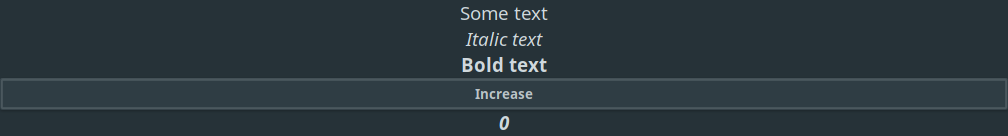
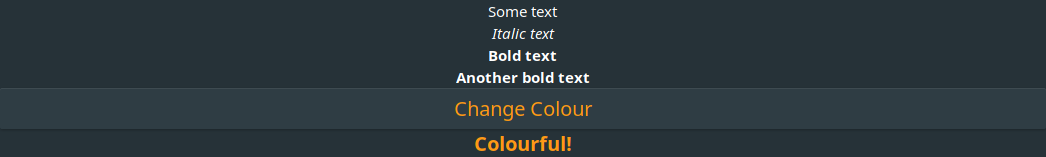
Updated README

diff --git a/README.md b/README.md
@@ -1,10 +1,14 @@
 # Reactive Markup
 
-The main goal of Reactive Markup is to provide a declarative way to program GUIs and to provide control structures within the markup to simplify event handling. Additionally, the markup is not limited to a fixed set of elements and can be easily extended with further components. The implementation of the markup can also be freely decided, even at runtime!
+**Reactive-Markup is still in a testing/development phase!**
 
-The library ist currently still in a design stage and this minimal example only shows what could be possible. I would love to hear what others think about my ideas!
+The main goal of Reactive Markup is to finally allow high-level GUI-programming in Haskell. Gone are the days of manually interfacing with C frameworks!
 
-Following Example outdated! Expect an update within a day!
+Here are some (planned) features:
+- Declarative
+- State/Event handling directly within components
+- Easy to create additional elements
+- Choose GUI framework depending on the environment
 
 Here is a code example:
 ```haskell
@@ -15,80 +19,96 @@ Here is a code example:
 module Main where
 
 import qualified Data.Text as T
+import Data.Colour
+import Data.Colour.Names
 
-import ReactiveMarkup.Markup
+import ReactiveMarkup.Elements.Settings
 import ReactiveMarkup.Elements.Basic
+import ReactiveMarkup.Markup
 import ReactiveMarkup.Runners.Gtk
 
 main :: IO ()
-main = basicGtkSetup "Example" $ runMarkup gtkRunner (\_ -> pure ()) myMarkup
+main = basicGtkSetup "Example" (\_ -> pure ()) myMarkup
 
-myMarkup :: SimpleMarkup [Label, List, DynamicState, DynamicMarkup, Button] Void
-myMarkup = expandMarkup $ list mempty $ emptyMarkupBuilder
-  +-> label mempty "Some text"
-  +-> label #italic "Italic text"
-  +-> list mempty (emptyMarkupBuilder +-> label #bold "Bold text")
-  +-> dynamicState 0 (\i _ -> (Just $ succ i, Nothing)) 
-        (flip dynamicMarkup $ \i -> list mempty $ emptyMarkupBuilder 
-          +-> button "Increase"
-          +-> label (#bold <> #italic) (T.pack $ show i)
-        )
+myMarkup :: SimpleMarkup '[Set FontColour, Set FontSize, List, Label, Set FontStyle, Set FontWeight, DynamicState, DynamicMarkup, Button] e
+myMarkup = expandMarkup $ fontColour white %% fontSizePx 15 %-> list (emptyMarkupBuilder
+  +-> label "Some text"
+  +-> italicStyle %-> label "Italic text"
+  +-> bold %-> list (emptyMarkupBuilder +-> label "Bold text" +-> label "Another bold text")
+  +-> greaterFont %-> dynamicState 0 (\i _ -> (Just $ succ i, Nothing))
+        (flip dynamicMarkup $ \i -> fontColour (rainbowColour i) %-> list (emptyMarkupBuilder 
+          +-> button "Change Colour"
+          +-> bold %-> label "Colourful!"
+        )))
+
+rainbowColour :: Int -> Colour Double
+rainbowColour i = blend factor3 (blend factor2 red yellow) (blend factor2 (blend factor1 red yellow) blue)
+  where
+    factor1 = sin (0.35 * fromIntegral i)
+    factor2 = sin (0.2 * fromIntegral i)
+    factor3 = 0.5 + sin (0.25 * fromIntegral i) / 4
 ```
 
-For now, I am working on an implementation (**gtkRunner** in _Runners/Gtk.hs_) of the Markup for GTK. I have created a simple implementation for the five components **Label**, **List**, **DynamicState**, **DynamicMarkup** and **Button**, which you can find in _reactive-markup/src/ReactiveMarkup/Elements/Basic.hs_.
-
-Here is a screenshot of the above example with my simplistic implementation:
+Here is a screenshot of the above example:
 ![](./screenshot.png)
+
+I have already added some **documentation** of the source code! Take a look if you are interested.
 
 ## How to build yourself
 
 First and foremost, you need to have **GTK 3** installed!
 
-To build this library, I personally use stack.
+This projects currently consists of:
+- reactive-markup: Main library which defines the markup and some basic components
+- reactive-markup-gtk: A gtk implementation of the current components
+- examples: Examples on how to use this library
+- gtk-hotreload: Hot-Reloading for reactive-markup-gtk
 
+I personally use stack as my build tool and you can build all of these 4 sub-projects with:
 ```bash
+git clone https://github.com/Simre1/reactive-markup.git
+cd reactive-markup
 stack build
 ```
 
-However, cabal ought to also work just fine.
+Other build systems (cabal/nix) should also work fine, but I have not set up configuration files for those.
 
 This library depends on **gi-gtk**, so keep in mind that compilation takes quite a while.
 
-## How it works
+## What is the Markup datatype?
 
-I have already added some **documentation** of the source code! Take a look if you are interested.
+**Markup** is an extensible datatype which can be extended with an arbitrary amount of elements.
+Elements used in this example are
+- Label
+- List
+- Button
+- DynamicState
+- DynamicMarkup
+- Set FontColour
+- Set FontSize
+- Set FontWeight
+- Set FontStyle
 
-**Label**, **List**, **Button**, **DynamicState** and **DynamicMarkup** are all elements. **SimpleMarkup** is just a wrapper for those elements and the list parameter of **SimpleMarkup** keeps track of all used elements. The second parameter of **SimpleMarkup** is the event type that this **SimpleMarkup** can emit. Since I did not want to handle any events at the top-level, I just chose **Void** so that it is impossible to emit any events at the top-level.
+**Label**, **List**, **Button** directly correlate with Gtk components that you can see in the screenshot. **Dynamic State** and **Dynamic Markup** allow elements to have internal state and are used to change the font colour on a button press. All the **Set ...** elements are used for styling.
 
-### Explanation of each element
+## How does my Markup get rendered?
 
-- **Label**: An element to render text
-- **List**: An element which can contain other elements
-- **Button**: An element which emits an event
-- **DynamicState**: An element which handles events and allows for state within markup
--- **DynamicMarkup**: An element which allows markups to depend on changing state
-
-### Used Runner determines the result
-
-By itself, *myMarkup* is really just markup which can be executed in various ways. In order to use this markup, you have to provide a **Runner** which transforms this markup into GUI elements. In this example, I have used **gtkRunner** which converts *myMarkup* into GTK widgets.
-
-The transformation happens here: `runMarkup gtkRunner (\_ -> pure ()) myMarkup`
-The rest of the main function just sets up GTK and creates a window.
-
-This means that you can define your markup once while using different runners depending on the situation.
+**Markup** holds the information needed to create a GUI, but not the actual GUI itself. How the **Markup** gets interpreted depends on the used **Runner**. Currently, the only available **Runner** is for GTK, which transforms **Markup** into a GTK widget. However, it is also possible to create **Runner**s for other frameworks.
 
 ## Hot Reloading !
 
-I am currently testing hot reloading with the help of ghcid and it seems to be working (although slightly buggy).
+I am currently testing hot reloading with the help of ghcid.
 
 You can try it out with:
 ```bash
 ghcid --command="stack ghci" --run="hotReloadMarkupWithoutAsking myMarkup (\_ -> pure ())"
 ```
 
-This will hot-reload the example in examples/Main.hs.
+This will hot-reload the example in _examples/src/Main.hs_.
+
+If you are using another build system, make sure that _ghci_ loads _gtk-hotreload/src/HotReload.hs_. You can then hot-reload any **Markup** that is in scope in _ghci_ and that is within the capabilities of the GTK **Runner**!
 
 ## Call for participation
 
-This library is still in its design phase and I would like to gather as many opinions as possible. So feel free to tinker with this library and share your thoughts about this concept.
+This library is rather ambitious and every helping hand is greatly appreciated. Feel free to tinker with this library and share your thoughts!
 
